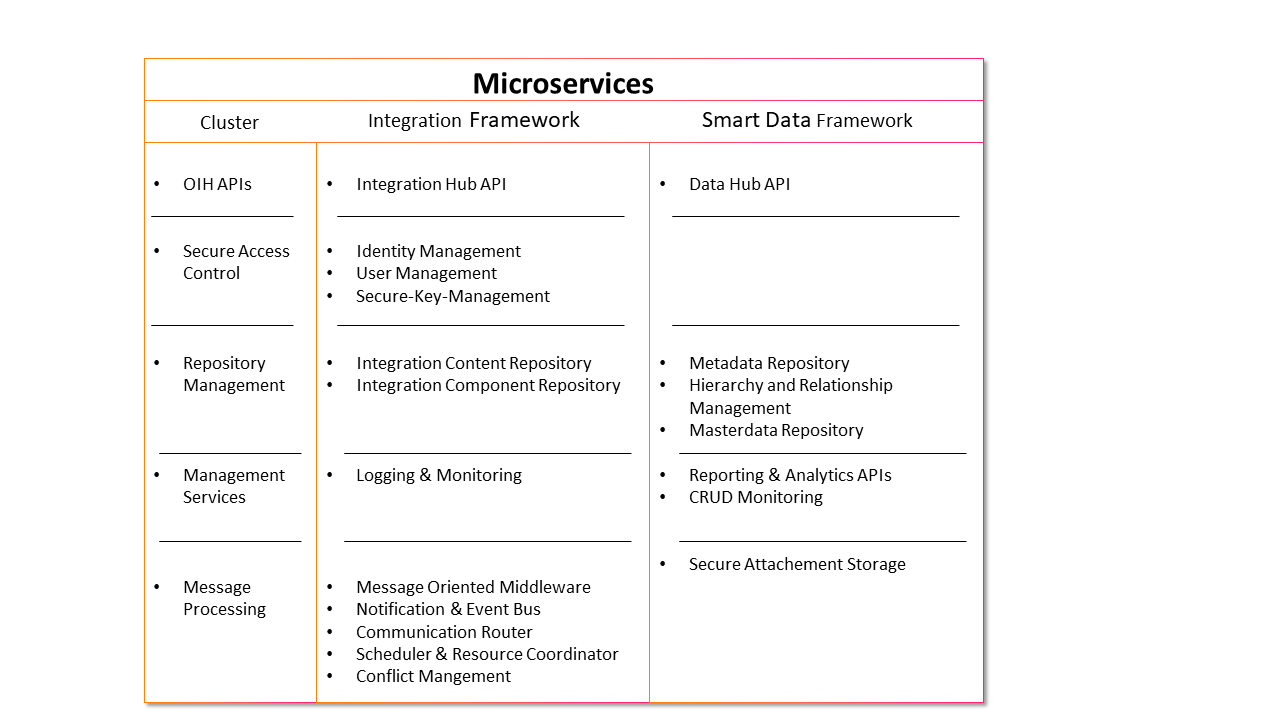
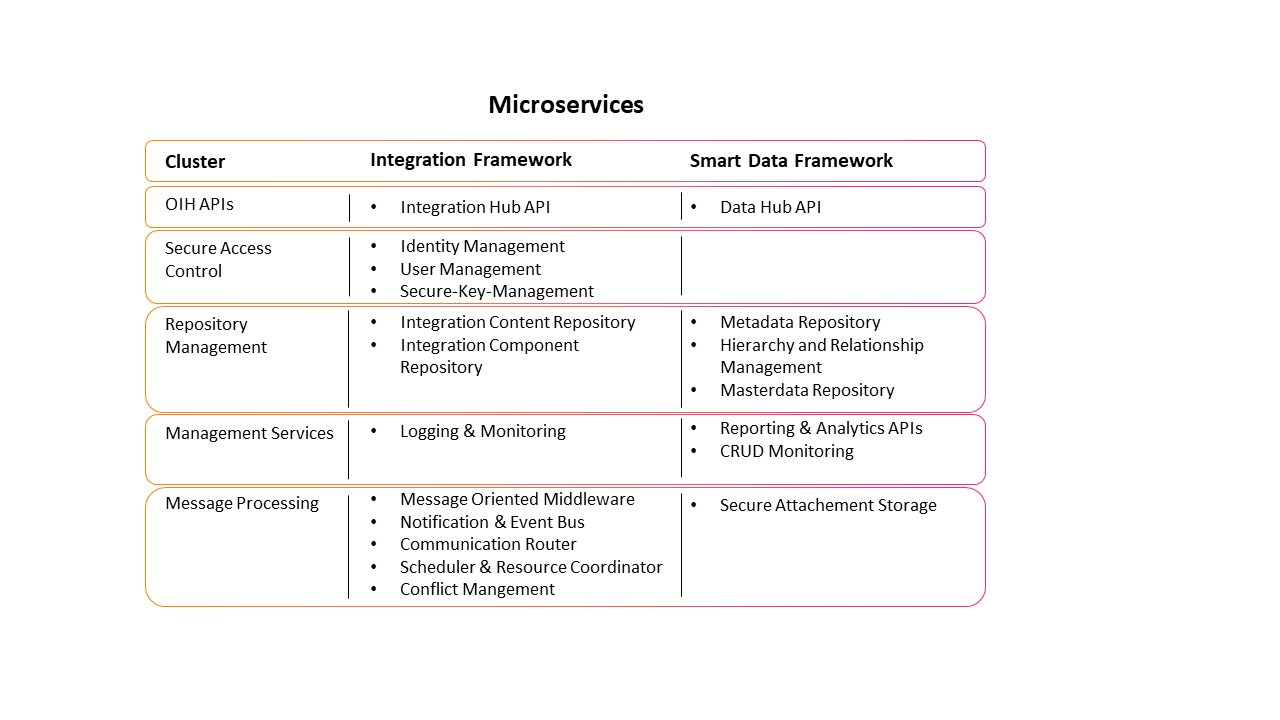
Update Microservice overview and clusters

diff --git a/ReadmeSuggestion.md b/ReadmeSuggestion.md
@@ -85,7 +85,7 @@ The following illustration shows how the microservices are aggregated within the
 
 ## Microservice Overview
 
-![Open Integration Hub Microservices](Assets/MicroservicesFull.png)
+![Open Integration Hub Microservices](Assets/Microservicesv3.png)
 
 
 ### Integration Component (Adapter) Repository
